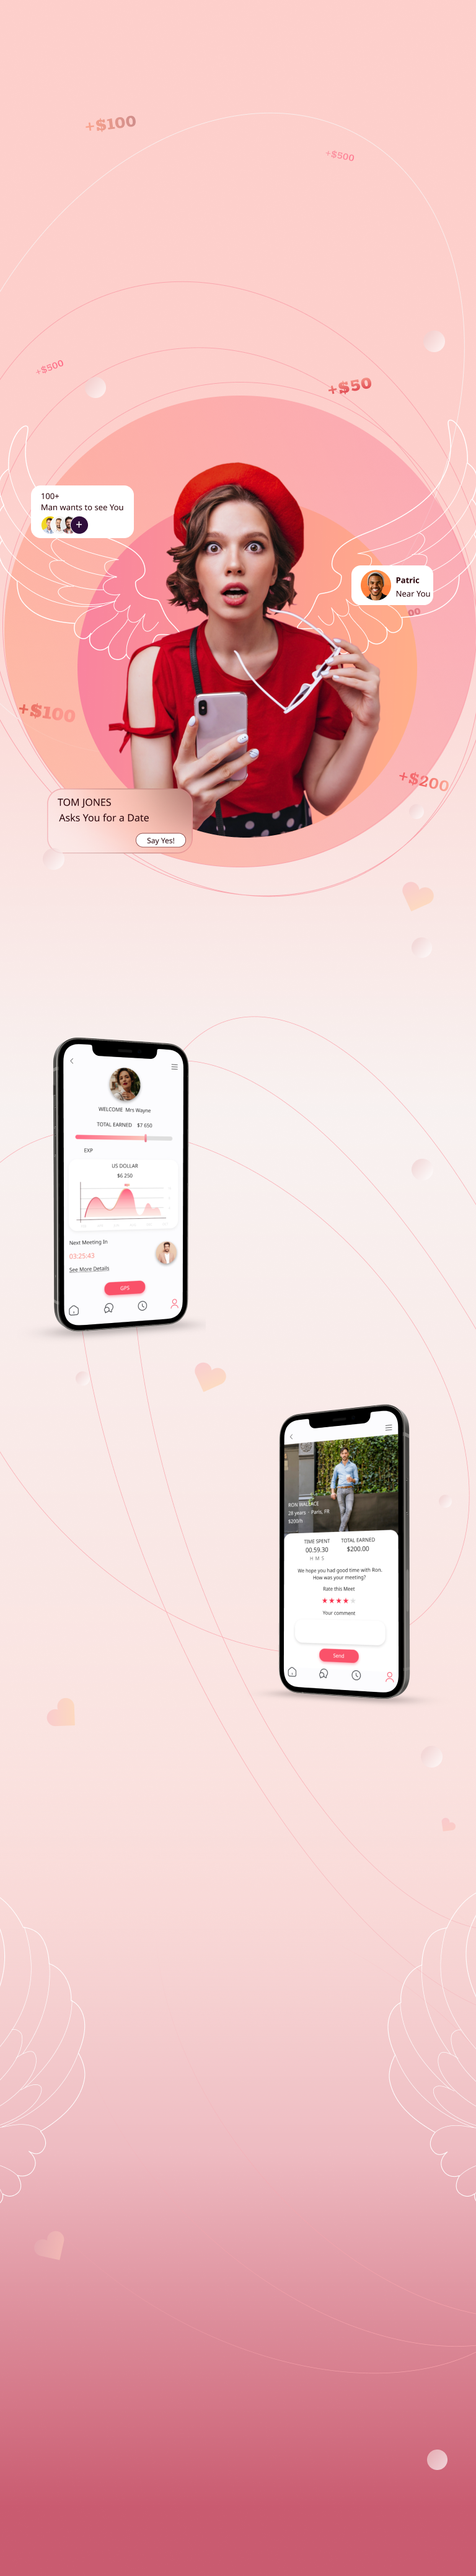
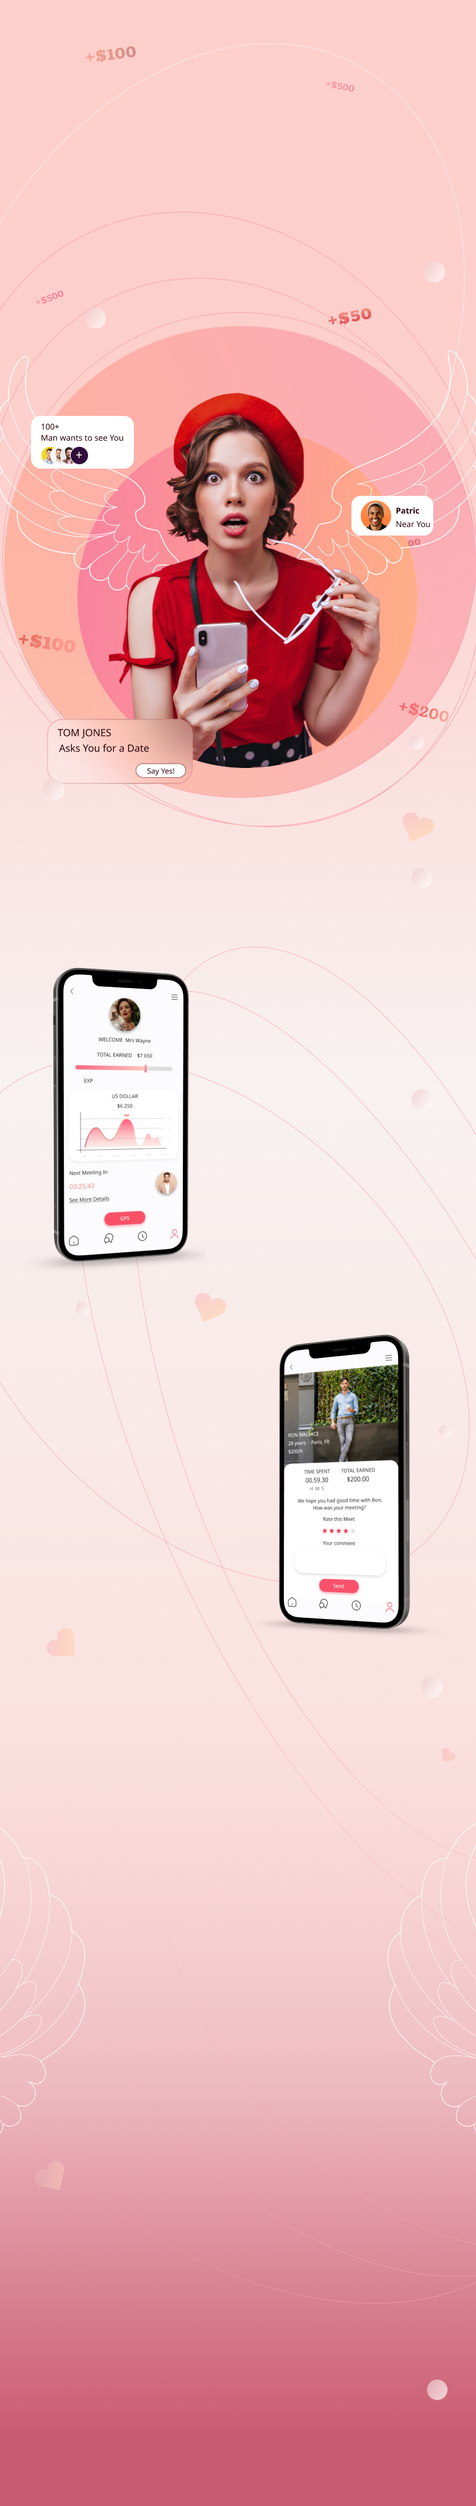
create mobile

diff --git a/style.css b/style.css
@@ -399,10 +399,14 @@ form p {
     display: flex;
     flex-direction: row;
     justify-content: space-between;
-    padding: 32px 0px 69px 32px;
+    padding: 16px 0px 0px 16px;
     font-family: "Noto Sans Hebrew", sans-serif;
     color: #280309;
     font-weight: 400;
+  }
+  .first-block-head-img img{
+    width: 35px;
+    height: 45px;
   }
   .first-block-head div:nth-child(2) {
     display: flex;
@@ -410,33 +414,35 @@ form p {
   }
   .first-block-main {
     font-family: "Rokkitt", sans-serif;
-    margin: 261px 80px 0 80px;
+    margin: 55px 0px 0 0px;
     color: #280309;
+    text-align: center;
   }
   .first-block-main h1 {
-    font-size: 72px;
-    line-height: 0px;
-    margin-block-end: 40px;
+    font-size: 40px;
+    margin-block-end: 34px;
     font-weight: 900;
   }
   .first-block-main h2 {
-    font-size: 48px;
-    line-height: 58px;
-    margin-block-start: 0;
-    margin-block-end: 30px;
+    margin: 0 62px;
+    font-size: 26px;
+    line-height: 30px;
     font-weight: 900;
+    padding-bottom: 26px;
   }
-  .first-block-main button,
-  .second-block-main button {
+  br{
+    display: none;
+  }
+  .first-block-main button {
     color: white;
     background-color: #ff6381;
     padding: 8px 24px;
     border: 1px solid #ff6381;
     border-radius: 30px;
-    width: 224px;
-    height: 64px;
+    width: 220px;
+    height: 44px;
     cursor: pointer;
-    font-size: 24px;
+    font-size: 18px;
     font-family: "Noto Sans Hebrew", sans-serif;
     font-weight: 500;
   }
@@ -448,46 +454,58 @@ form p {
   }
   
   .second-block {
-    display: flex;
-    flex-direction: column;
-    align-items: end;
-    justify-content: end;
-    margin-top: 484px;
+    margin-top: 584px;
   }
   .second-block-main {
     display: flex;
     flex-direction: column;
-    padding: 0 79px 0 66px;
+    padding: 0 10px 0 10px;
     text-align: start;
   }
   
   .second-block-main h3 {
     font-family: "Rokkitt", sans-serif;
     font-weight: 900;
-    font-size: 40px;
+    font-size: 20px;
     color: #280309;
     margin-block-start: 0px;
     line-height: normal;
     padding-bottom: 24px;
+    text-align: center;
   }
   .second-block-main-text {
     display: flex;
-    flex-direction: column;
-    justify-content: start;
-    max-width: 624px;
     padding-bottom: 48px;
+    flex-wrap: wrap;
+  }
+  .second-block-main-text .right p:nth-child(1),
+  .second-block-main-text .left p:nth-child(1){
+    padding-bottom: 42px;
+  }
+  .left {
+    flex: 1;
+    width: 210px;
+    padding-left: 40px;
+  }
+  .right {
+    width: 200px;
+    margin-left: 220px;
+    padding: 40px 10px 80px 0;
   }
   .second-block-main p {
     color: #000;
     font-family: "Noto Sans Hebrew", sans-serif;
-    font-size: 20px;
+    font-size: 14px;
     font-style: normal;
     font-weight: 500;
     line-height: normal;
     text-align: justify;
   }
+  .second-block-main button{
+    display: none;
+  }
   .third-block {
-    margin-top: 130px;
+    margin-top: 100px;
     padding-bottom: 16px;
   }
   form p {
@@ -669,7 +687,7 @@ form p {
   }
   
 }
-@media only screen and (min-width: 405px) and (max-width: 451px) {
+/* @media only screen and (min-width: 405px) and (max-width: 451px) {
   .first-block-main {
     font-family: "Rokkitt", sans-serif;
     margin: 100px 20px 0 20px;
@@ -954,7 +972,7 @@ form p {
     background-position: right 16px center;
     background-size: 12px;
   }
-}
+} */
 @media only screen and (min-width: 519px) and (max-width: 590px) {
   .first-block-main {
     font-family: "Rokkitt", sans-serif;

diff --git a/index.html b/index.html
@@ -11,7 +11,7 @@
       <div class="main">
         <section class="first-block">
           <div class="first-block-head">
-            <div>
+            <div class="first-block-head-img">
               <img src="/image/Frame 111.png" />
             </div>
           </div>
@@ -27,6 +27,7 @@
               <h3>
                 Start earning 3000$ monthly just by meetings with your fans!
               </h3>
+              <div class="right">
             <p>
               With <strong>LooLo</strong> you have found a way to monetise your time with
               entertainment. Not your average dating app, this is a fresh start.
@@ -37,13 +38,16 @@
               that allows customers to spend time with their favorites and you
               are getting paid for just meeting the fans that adore you.
             </p>
+          </div>
             <br />
+            <div class="left">
             <p>
               Imagine getting 200$ for spending 40 minutes in Starbucks, walking
               around a park or going out to a party with your fan?
             </p>
             <br />
             <p>It becomes reality with <strong>LooLo!</strong> Are you ready for this?</p>
+          </div>
           </div>
             <div class="second-block-main-button">
               <button id="scrollButton2">Get started!</button>
